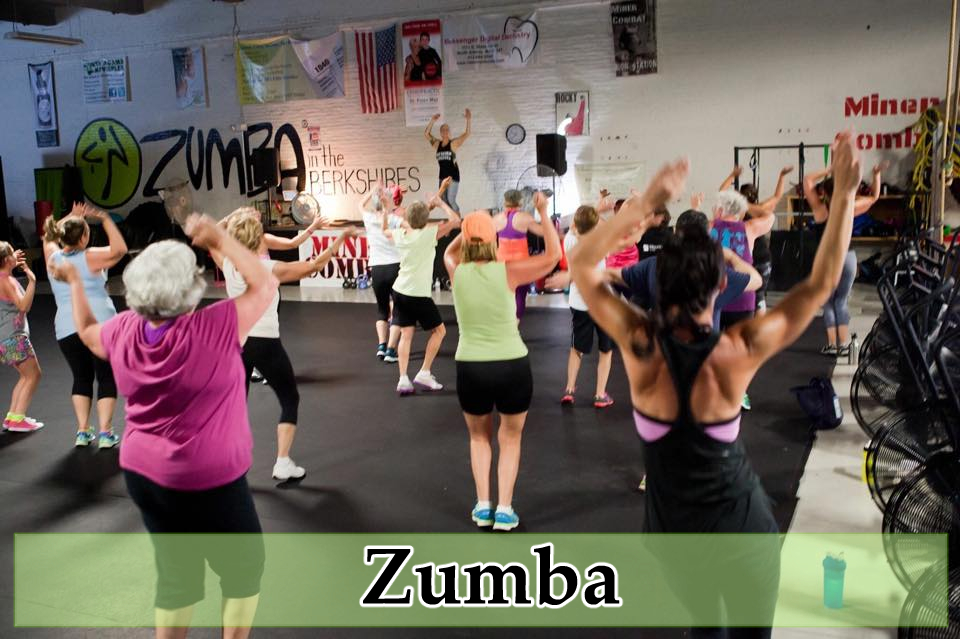
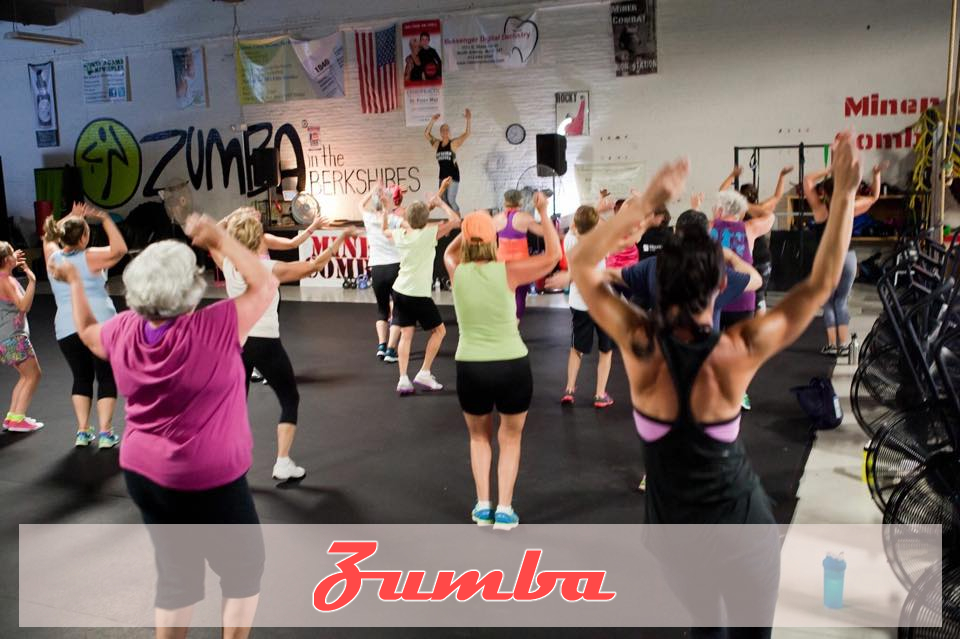
new formatting

Changed region(s): [[0.0, 0.8028, 1.0, 0.9812]]

diff --git a/style.css b/style.css
@@ -1,5 +1,5 @@
 /* Color Palette
-#C0DB3D - green
+#f44b42 - red/orange
 #FFF8F0 - white
 #620504 - red
 #3E3C3D - med grey
@@ -8,62 +8,98 @@
 
 /* Global */
 body {
-    background-color: #FFF8F0;
+    background-image: url('images/brickwall.jpg');
     color: #1C1C21;
     font-size: 20px;
 }
-a {
-    color: #C0DB3D;
+.box {
+    display: inline-flex;
+    justify-content: space-around;
 }
-#homepageImage {
-    float: left;
+/*Header Footer*/
+header {
+    background-color: #3E3C3D;
+    flex-direction: row;
+    display: flex;
+    justify-content: flex-end;
+    align-items: center;
+    padding: 20px;
+    filter: drop-shadow(0 0 10px #333);
+    border-radius: 5px 5px 0 0;
+}
+a:link {
+    color: #f44b42;
+    text-decoration: none;
+    font-size: 20px;
+    font-family: 'Oswald', sans-serif;
+    padding: 10px; 
+}
+a:visited {
+    color: #FFF8F0;
+}
+
+footer {
+    background-color: #3E3C3D;
+    width: 100%;
+    height: 40px;
+}
+/* Banner */
+#banner {
+    width: 100%;
+    height: auto;
+    filter: drop-shadow(0 0 10px #333);
+    border-radius: 0 0 5px 5px;
 }
 .tagLine {
+    color:  #f44b42;
     text-align: center;
-    font-family: 'Monoton', cursive;
+    font-family: 'Oswald', sans-serif;
     font-size: 70px;
     letter-spacing: 3px;
     word-spacing: 10px;
-}
-.classDetails {
-    background: #3E3C3D;
-    text-align: center;
-    color: #FFF8F0;
-    padding: 5px;
-    margin: 10px;
-    border: 10px solid #C0DB3D;
-    position: absolute;
-    z-index: -1;
-}
-.classes p {
-    font-size: 25px;
-
-}
-.classPhotos {
-    width: 33%;
-    height: 33%;
-    padding: 10px;
+    text-shadow: 2px 2px  rgba(28, 28, 33, .5);
 }
 
-.box {
+/* Offered Classes */
+.text {
+  color: #FFF8F0;
+  font-size: 30px;
+  position: absolute;
+  margin: 20px 10px auto 10px;
+  text-align: center;
+}
+.classPhoto {
     display: inline-flex;
-    flex-direction: row;
-    justify-content: center;
-}
-#banner {
-    display: block;
-    margin-left:auto;
-    margin-right:auto;
     width: 100%;
+    height: 100%;
+    border-radius: 10px;
+    margin: 0 auto;
 }
-#bannerBorder {
-    background-color: black;
-    margin: 0;
+
+/* Fade in Overlay */
+.container:hover .overlay {
+    opacity: 1;
 }
-/* Header Footer */
-nav {
-    background-color:#3E3C3D ;
-    padding: 20px;
-    margin: 0;
-    
+.container {
+    position: relative;
+    width: 33%;
+    height: auto;
+    margin: 10px;
+    filter: drop-shadow(0 0 10px #333);
+
+}
+.overlay {
+    position: absolute;
+    top: 0;
+    bottom: 0;
+    left: 0;
+    right: 0;
+    height: 100%;
+    width: 100%;
+    opacity: 0;
+    transition: .5s ease;
+    background-color: rgba(28, 28, 33, .8);
+    border: 5px solid #f44b42;
+    border-radius: 10px;
+    margin: -5px;
 }
